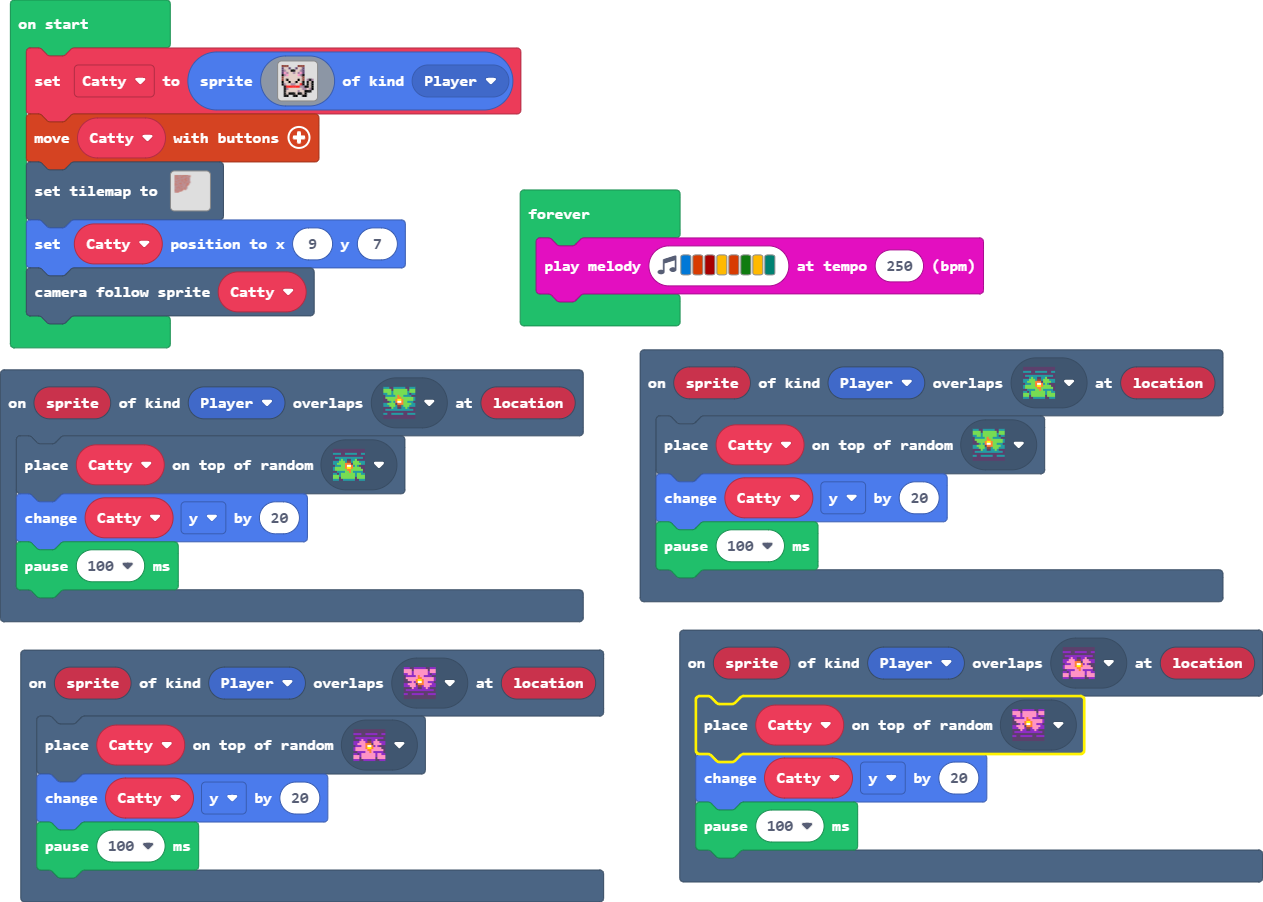
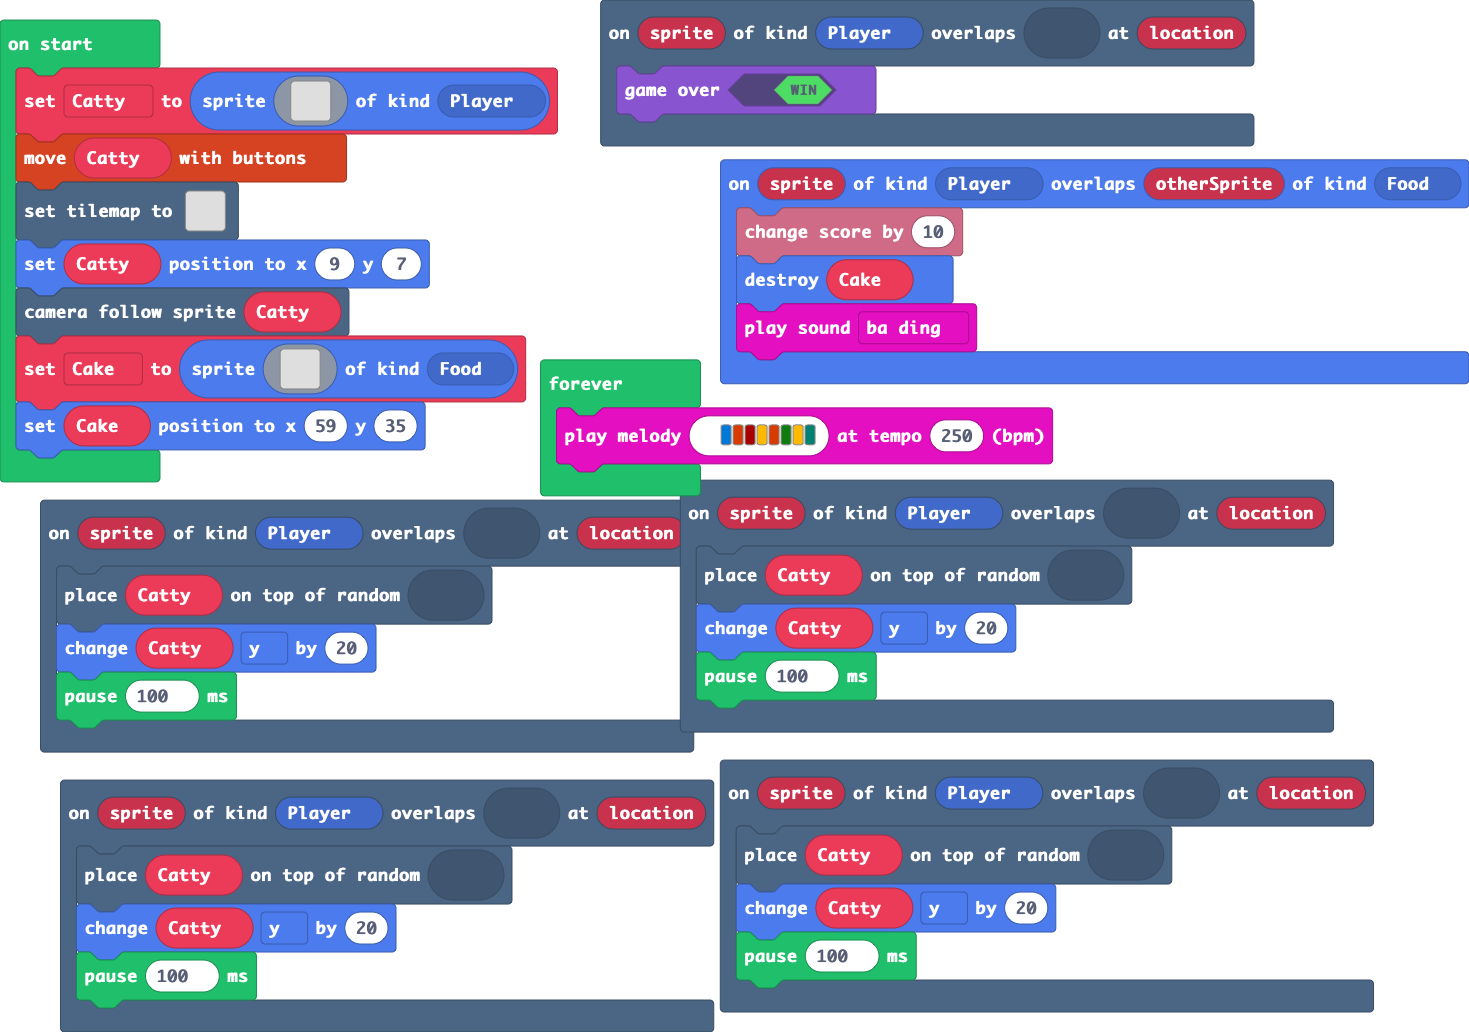
Update main.blocks, main.ts, tilemap.g.jres, tilemap.g.ts

diff --git a/tilemap.g.ts b/tilemap.g.ts
@@ -10,7 +10,7 @@ namespace myTiles {
     helpers._registerFactory("tilemap", function(name: string) {
         switch(helpers.stringTrim(name)) {
             case "level1":
-            case "level1":return tiles.createTilemap(hex`4000400001030303030303030306030303030304030303030303030303030303090000000000000000000000000000000000000000000000000000000000000000000000010303030303030303040303030303040303030307030303030303030400030300000000000000000000000000000000000000000000000000000000000000000103030202020202020202020205050503030303040303030304050505030303000000000000000000000000000000000000000000000000000000000000000001030303030303030304030301030303030303030403030303040303030303030000000000000000000000000000000000000000000000000000000000000000010303030303030303040303010303030304050505040505050505050202020000000000000000000000000000000000000000000000000000000000000000000103030402020202020403020203030303040303030403030303030403030100000000000000000000000000000000000000000000000000000000000000000001030304030303030304030301030303030403030405030303030304030301000000000000000000000000000000000000000000000000000000000000000000010303040303030303040302010505050505050505030303030202040303010000000000000000000000000000000000000000000000000000000000000000000103030403030303030403030304030303030103030303030304030303030100000000000000000000000000000000000000000000000000000000000000000001030302020202020202040303040303030301030303030303050403030301000000000000000000000000000000000000000000000000000000000000000000010303030301030303030403030403030303010303030303030305040303010000000000000000000000000000000000000000000000000000000000000000000102020202020303030304030204030303030105050503030303030403030100000000000000000000000000000000000000000000000000000000000000000001030303030105030303040303040303030301030304030303030304050505000000000000000000000000000000000000000000000000000000000000000000010303030303010502030403030403030303010303040303010505050303030000000000000000000000000000000000000000000000000000000000000000000103030303030303030304020202020201030103030303030103040303030303000000000000000000000000000000000000000000000000000000000000000001020202020202020202020303030303010301030303030301030405050505050000000000000000000000000000000000000000000000000000000000000000030303030103030303030303030303030103010303050505050303030303000000000000000000000000000000000000000000000000000000000000000000000303030301020202020303030303030301020103030103030303030303030000000000000000000000000000000000000000000000000000000000000000000003030303030303030403030303030303010303030301030303030303030000000000000000000000000000000000000000000000000000000000000000000000030303030303030304050505050308030103030103050505050303030300000000000000000000000000000000000000000000000000000000000000000000000303030202030302010303030103050501030301030103030303030300000000000000000000000000000000000000000000000000000000000000000000000003030303010203030303030301030303010303010301030303030000000000000000000000000000000000000000000000000000000000000000000000000000010202030304050505050502010303030505050503050303030300000000000000000000000000000000000000000000000000000000000000000000000000000103040301050303030303030103030303030103030103030300000000000000000000000000000000000000000000000000000000000000000000000000000001030405010303030303030301030303030201020202020202010000000000000000000000000000000000000000000000000000000000000000000000000000010303030303030303090303020202020201030303030303030100000000000000000000000000000000000000000000000000000000000000000000000000000102020203030502020103030301030303010303030303030105000000000000000000000000000000000000000000000000000000000000000000000000000001030304030303030301030303010303030202020303050501000000000000000000000000000000000000000000000000000000000000000000000000000000050505050505050303010303030103030303030303030303000000000000000000000000000000000000000000000000000000000000000000000000000000000303030303030103030103030501030303030303030303030300000000000000000000000000000000000000000000000000000000000000000000000000000003030303030301050505050501030303030303030303030300000000000000000000000000000000000000000000000000000000000000000000000000000000030303030303010303030303030303030304050505050505050000000000000000000000000000000000000000000000000000000000000000000000000000000302020202020203030303030303030303040303030303030000000000000000000000000000000000000000000000000000000000000000000000000000000002010303030303030304030303030303030403030303030303030000000000000000000000000000000000000000000000000000000000000000000000000000010303030303030303040303040505050505030303090303030303000000000000000000000000000000000000000000000000000000000000000000000000000505050505030303030505050503030303010303030403030303030000000000000000000000000000000000000000000000000000000000000000000000000003030303010303030303030303030303030103030304030303030300000000000000000000000000000000000000000000000000000000000000000000000000030303030103030003030303030303030301030303040303030300000000000000000000000000000000000000000000000000000000000000000000000000000303030301000000030303030303030303010303030403030300000000000000000000000000000000000000000000000000000000000000000000000000000003030300010000000000000000000303000103040504030300000000000000000000000000000000000000000000000000000000000000000000000000000000000000000000000000000000000000000001050503030300000000000000000000000000000000000000000000000000000000000000000000000000000000000000000000000000000000000000000000010303030300000000000000000000000000000000000000000000000000000000000000000000000000000000000000000000000000000000000000000000000000000000000000000000000000000000000000000000000000000000000000000000000000000000000000000000000000000000000000000000000000000000000000000000000000000000000000000000000000000000000000000000000000000000000000000000000000000000000000000000000000000000000000000000000000000000000000000000000000000000000000000000000000000000000000000000000000000000000000000000000000000000000000000000000000000000000000000000000000000000000000000000000000000000000000000000000000000000000000000000000000000000000000000000000000000000000000000000000000000000000000000000000000000000000000000000000000000000000000000000000000000000000000000000000000000000000000000000000000000000000000000000000000000000000000000000000000000000000000000000000000000000000000000000000000000000000000000000000000000000000000000000000000000000000000000000000000000000000000000000000000000000000000000000000000000000000000000000000000000000000000000000000000000000000000000000000000000000000000000000000000000000000000000000000000000000000000000000000000000000000000000000000000000000000000000000000000000000000000000000000000000000000000000000000000000000000000000000000000000000000000000000000000000000000000000000000000000000000000000000000000000000000000000000000000000000000000000000000000000000000000000000000000000000000000000000000000000000000000000000000000000000000000000000000000000000000000000000000000000000000000000000000000000000000000000000000000000000000000000000000000000000000000000000000000000000000000000000000000000000000000000000000000000000000000000000000000000000000000000000000000000000000000000000000000000000000000000000000000000000000000000000000000000000000000000000000000000000000000000000000000000000000000000000000000000000000000000000000000000000000000000000000000000000000000000000000000000000000000000000000000000000000000000000000000000000000000000000000000000000000000000000000000000000000000000000000000000000000000000000000000000000000000000000000000000000000000000000000000000000000000000000000000000000000000000000000000000000000000000000000000000000000000000000000000000000000000000000000000000000000000000000000000000000000000000000000000000000000000000000000000000000000000000000000000000000000000000000000000000000000000000000000000000000000000000000000000000000000000000000000000000000000000000000000000000000000000000000000000000000000000000000000000000000000000000000000000000000000000000000000000000000000000000000000000000000000000000000000000000000000000000000000000000000000000000000000000000000000000000000000000000000000000000000000000000000000000000000000000000000000000000000000000000000000000000000000000000000000000000000000000000000000000000000000000000000000000000000000000000000000000000000000000000000000000000000000000000000000000000000000000000000000000000000`, img`
[1 lines of base64/hex data omitted]
 .22222222.22222.222222222222....................................
 .22222222.22222.2222.2222222..22................................
 .22.............2222.2222....222................................
@@ -75,7 +75,7 @@ namespace myTiles {
 ................................................................
 ................................................................
 ................................................................
-`, [myTiles.transparency16,sprites.dungeon.stairSouth,sprites.dungeon.stairWest,sprites.dungeon.stairLadder,sprites.dungeon.stairNorth,sprites.dungeon.stairEast,sprites.dungeon.greenOuterNorth2,sprites.dungeon.greenOuterSouth2,sprites.dungeon.purpleOuterNorth2,sprites.dungeon.purpleOuterSouth2], TileScale.Sixteen);
+`, [myTiles.transparency16,sprites.dungeon.stairSouth,sprites.dungeon.stairWest,sprites.dungeon.stairLadder,sprites.dungeon.stairNorth,sprites.dungeon.stairEast,sprites.dungeon.greenOuterNorth2,sprites.dungeon.greenOuterSouth2,sprites.dungeon.purpleOuterNorth2,sprites.dungeon.purpleOuterSouth2,sprites.skillmap.islandTile4], TileScale.Sixteen);
         }
         return null;
     })

diff --git a/main.ts b/main.ts
@@ -18,6 +18,15 @@ scene.onOverlapTile(SpriteKind.Player, sprites.dungeon.purpleOuterNorth2, functi
     Catty.y += 20
     pause(100)
 })
+sprites.onOverlap(SpriteKind.Player, SpriteKind.Food, function (sprite, otherSprite) {
+    info.changeScoreBy(10)
+    Cake.destroy()
+    music.baDing.play()
+})
+scene.onOverlapTile(SpriteKind.Player, sprites.skillmap.islandTile4, function (sprite, location) {
+    game.over(true)
+})
+let Cake: Sprite = null
 let Catty: Sprite = null
 Catty = sprites.create(img`
     e e e . . . . e e e . . . . 
@@ -39,6 +48,25 @@ controller.moveSprite(Catty)
 tiles.setTilemap(tilemap`level1`)
 Catty.setPosition(9, 7)
 scene.cameraFollowSprite(Catty)
+Cake = sprites.create(img`
+    . . . . . . . . . . b b b . . . 
+    . . . . . . . . b e e 3 3 b . . 
+    . . . . . . b b e 3 2 e 3 a . . 
+    . . . . b b 3 3 e 2 2 e 3 3 a . 
+    . . b b 3 3 3 3 3 e e 3 3 3 a . 
+    b b 3 3 3 3 3 3 3 3 3 3 3 3 3 a 
+    b 3 3 3 d d d d 3 3 3 3 3 d d a 
+    b b b b b b b 3 d d d d d d 3 a 
+    b d 5 5 5 5 d b b b a a a a a a 
+    b 3 d d 5 5 5 5 5 5 5 d d d d a 
+    b 3 3 3 3 3 3 d 5 5 5 d d d d a 
+    b 3 d 5 5 5 3 3 3 3 3 3 b b b a 
+    b b b 3 d 5 5 5 5 5 5 5 d d b a 
+    . . . b b b 3 d 5 5 5 5 d d 3 a 
+    . . . . . . b b b b 3 d d d b a 
+    . . . . . . . . . . b b b a a . 
+    `, SpriteKind.Food)
+Cake.setPosition(59, 35)
 forever(function () {
     music.playMelody("E B C5 A B G A F ", 250)
 })
